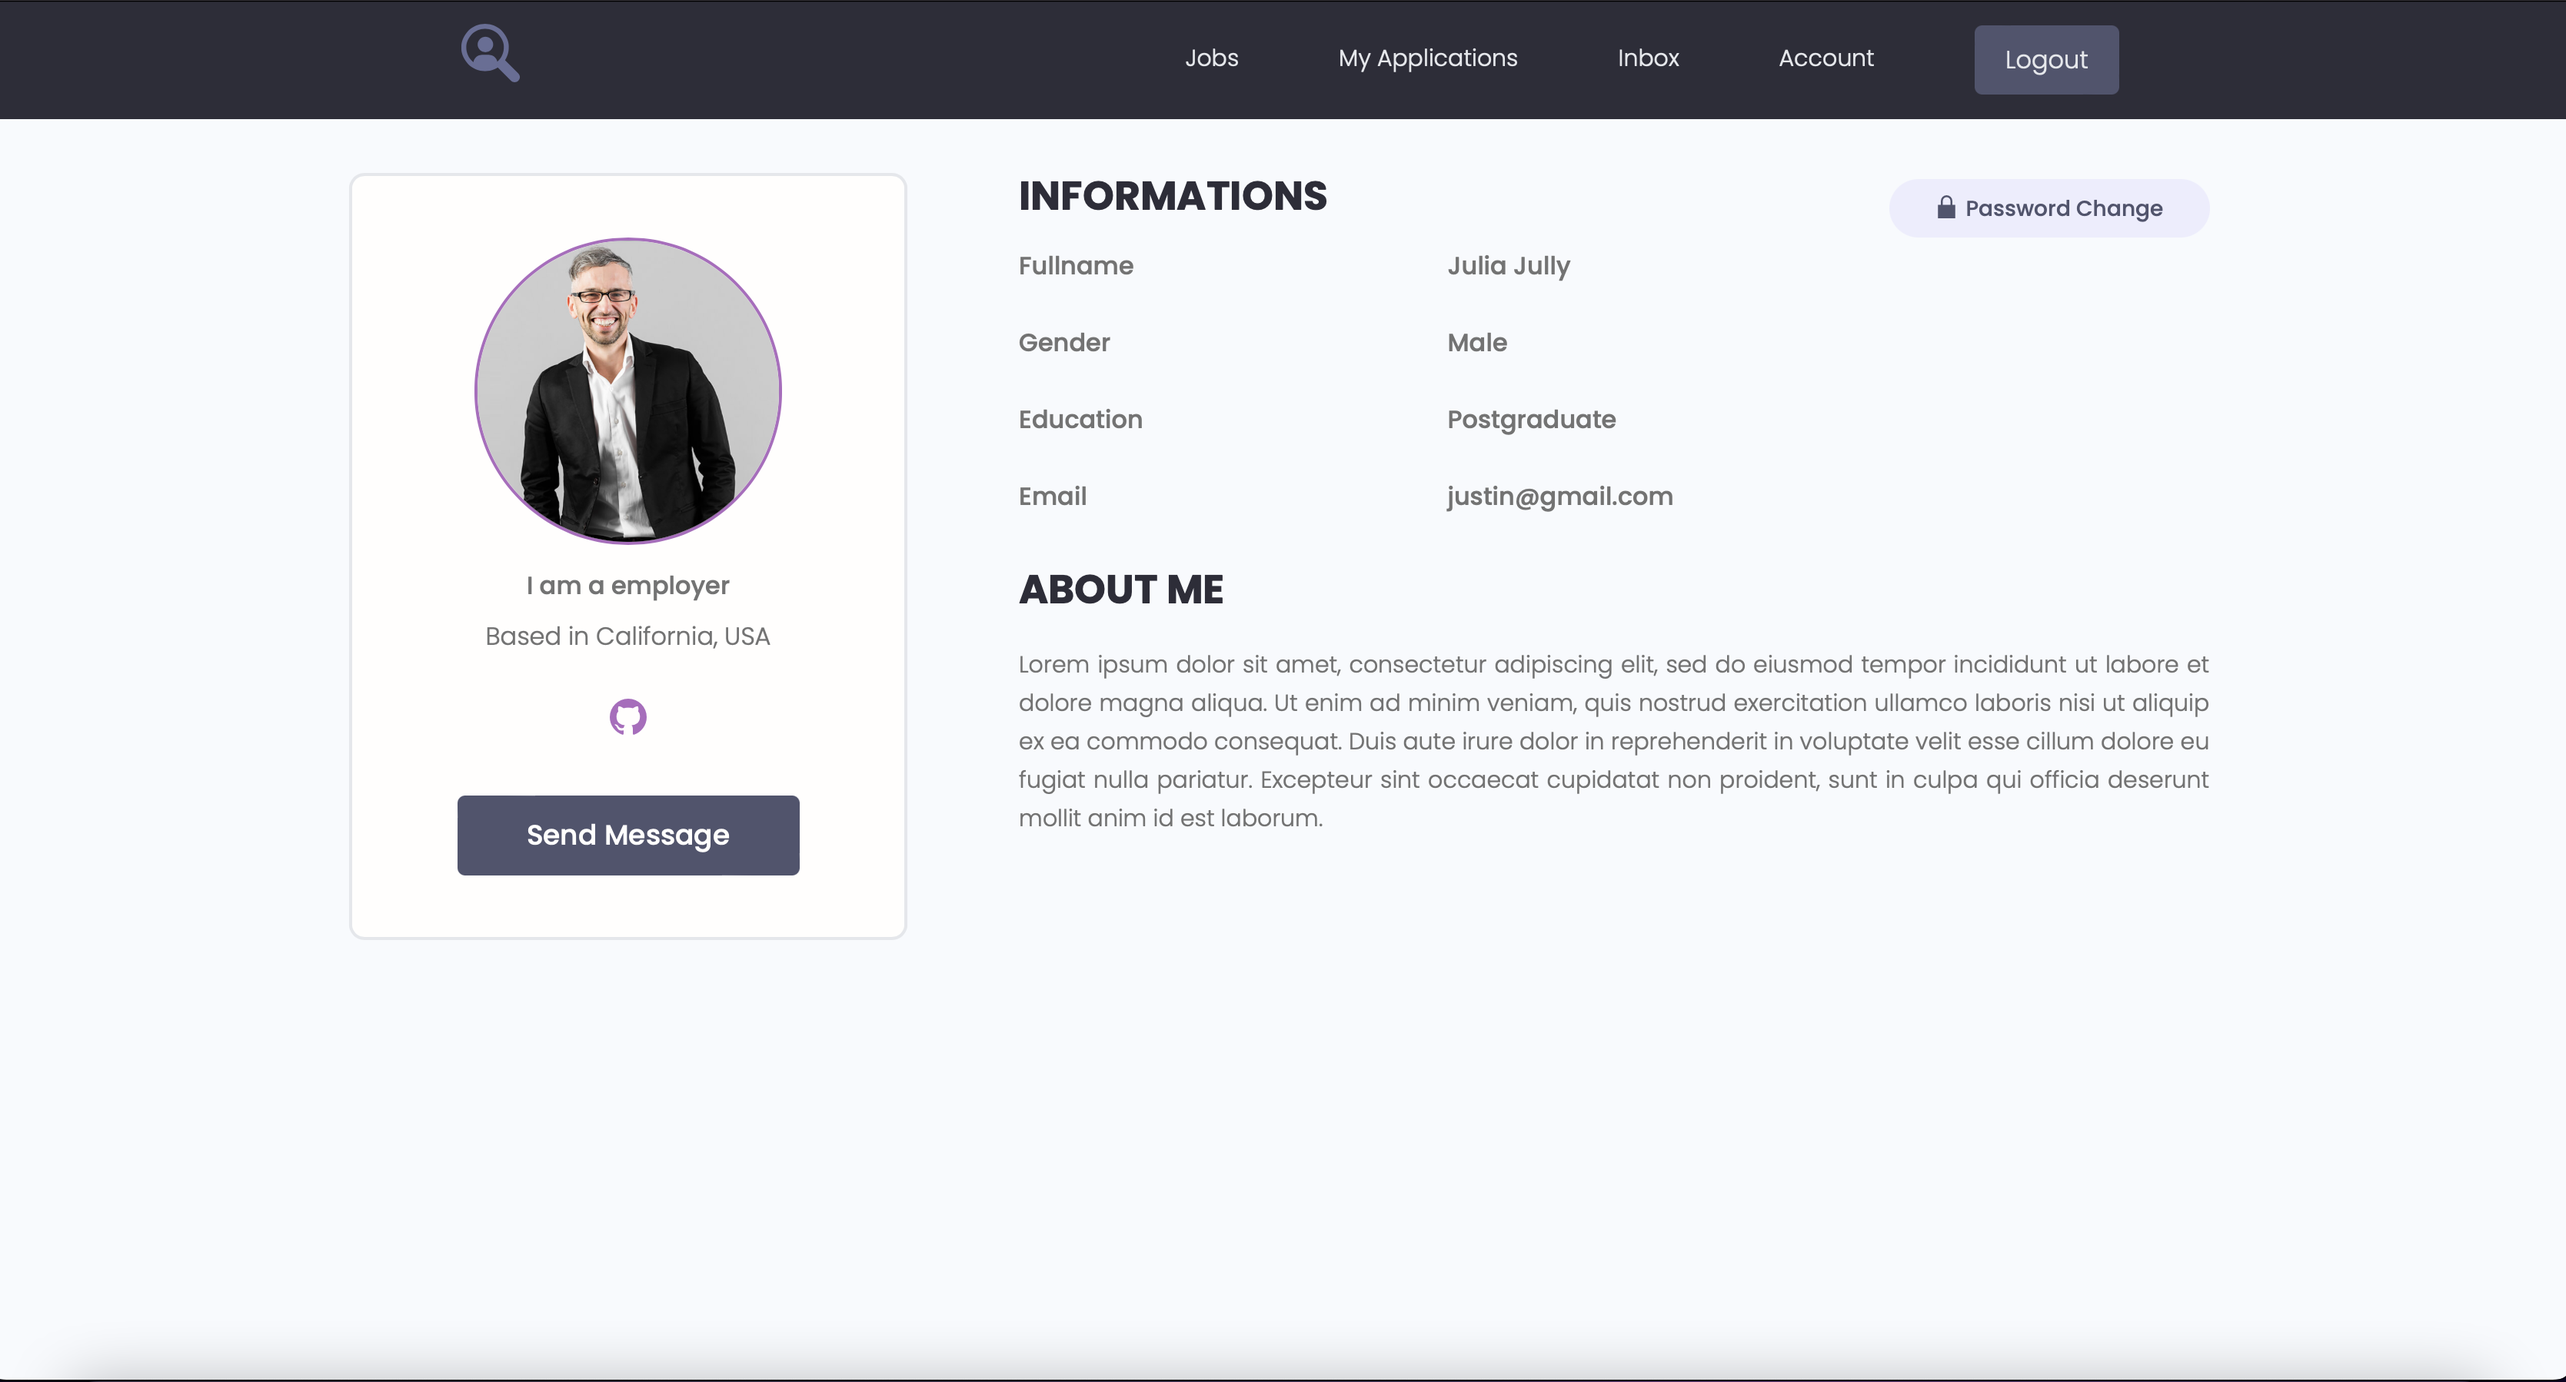
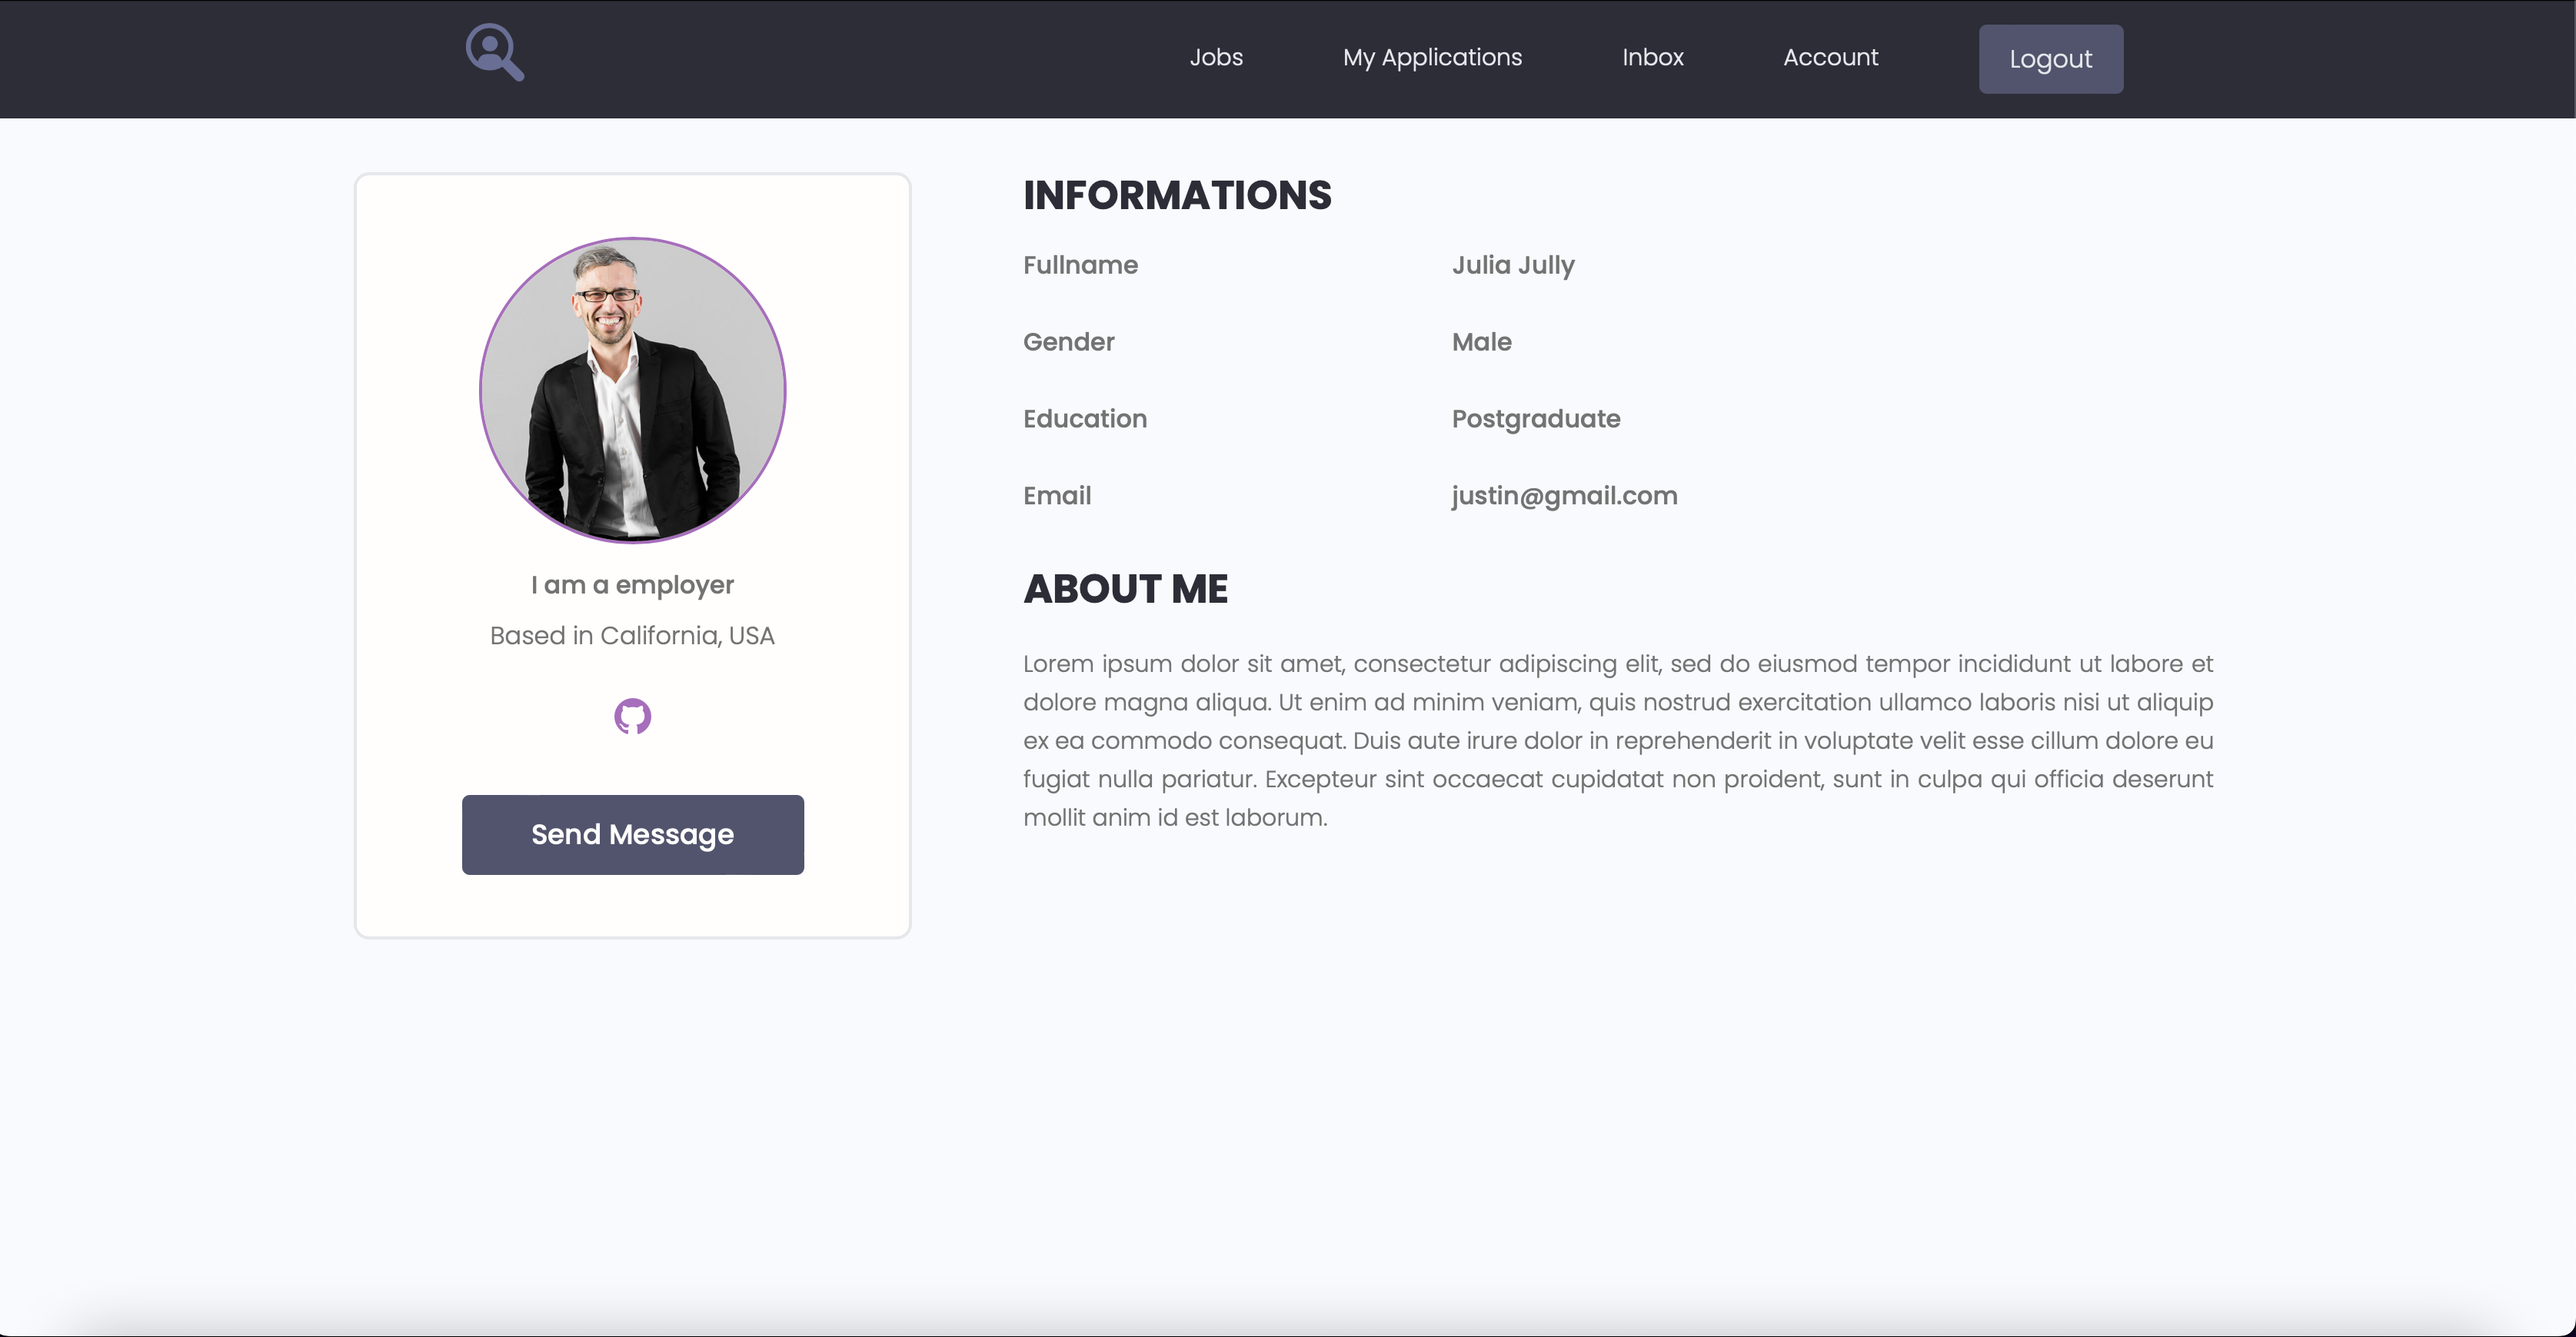
second commit

diff --git a/templates/users/profile.html b/templates/users/profile.html
@@ -56,9 +56,6 @@
                     <div class="devInfo">
                         <div class="settings">
                             <h3 class="devInfo__title">Informations</h3>
-                            <a class="tag tag--pill tag--sub settings__btn tag--lg"
-                               href="{% url 'account_change_password' %}"><i class="im im-lock"></i>
-                                Password Change </a>
                         </div>
                         <div class="layout">
                             <div class="column column--1of3">
